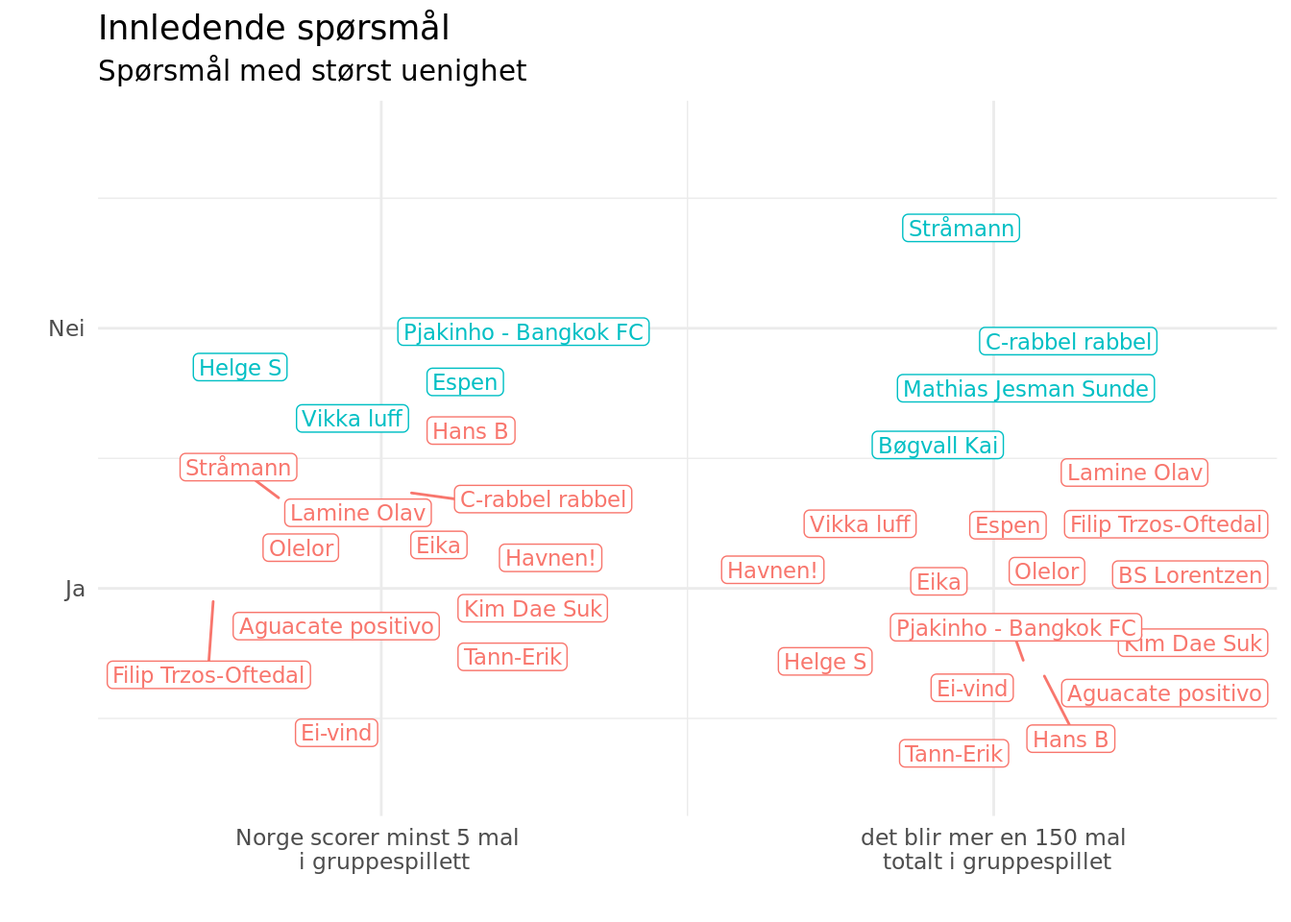
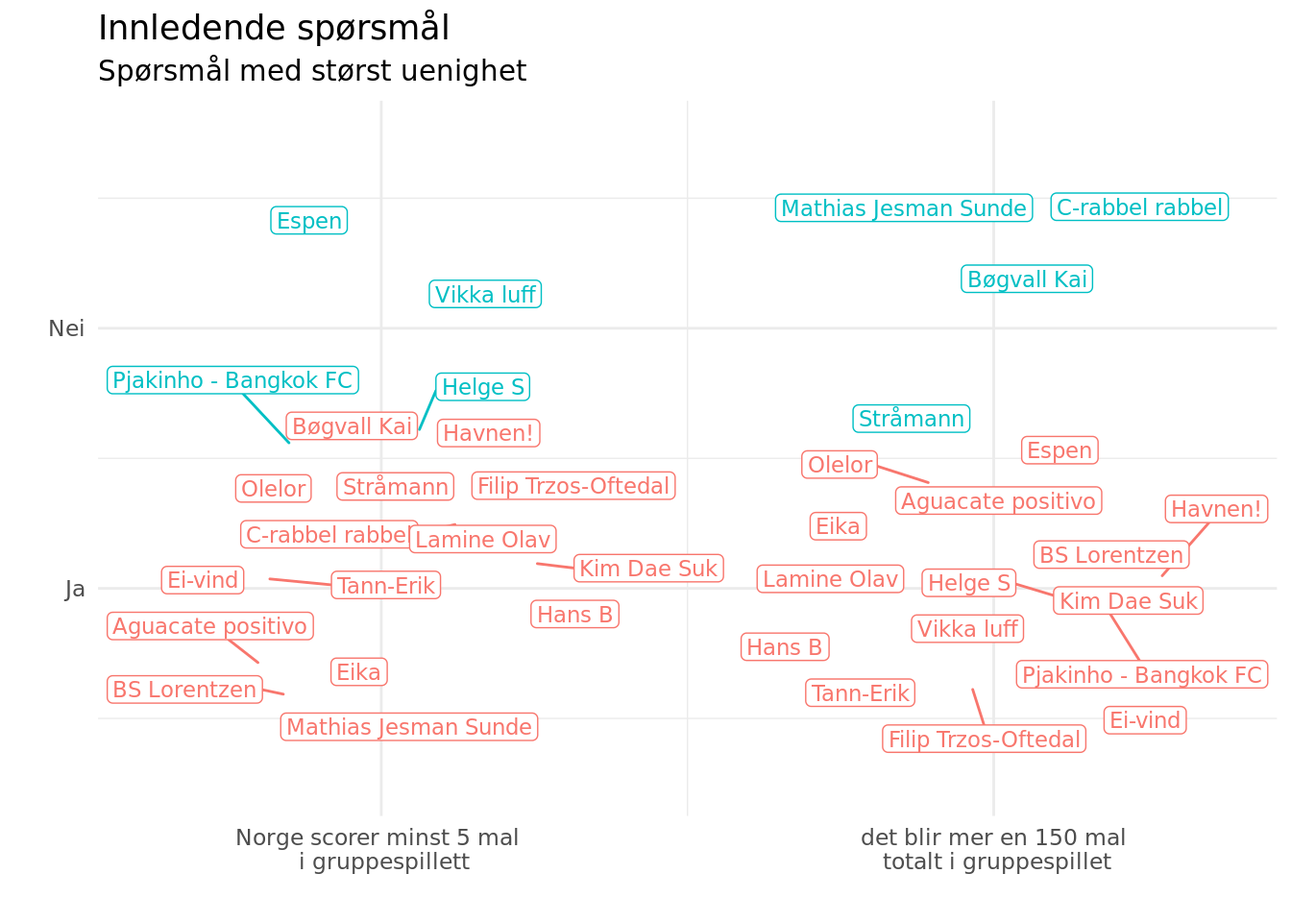
Før Frankrike

Changed region(s): [[0.0625, 0.2188, 1.0, 0.8438], [0.1875, 0.2188, 0.2812, 0.25]]

diff --git a/docs/senegalkampen.html b/docs/senegalkampen.html
@@ -8,7 +8,7 @@
 
 <meta name="author" content="Helge &amp; KI">
 
-<title>⚽ VM-tuppekunkurranse – Resultater 🚣 🏆</title>
+<title>⚽ VM-tuppekunkurranse – Resultater 🏆</title>
 <style>
 code{white-space: pre-wrap;}
 span.smallcaps{font-variant: small-caps;}
@@ -52,9 +52,9 @@ ul.task-list li input[type="checkbox"] {
   <li><a href="#innledning" id="toc-innledning" class="nav-link" data-scroll-target="#innledning"><span class="header-section-number">2</span> Innledning</a></li>
   <li><a href="#gruppespill" id="toc-gruppespill" class="nav-link" data-scroll-target="#gruppespill"><span class="header-section-number">3</span> Gruppespill</a>
   <ul class="collapse">
-  <li><a href="#dypdykk-gruppe-i-l" id="toc-dypdykk-gruppe-i-l" class="nav-link" data-scroll-target="#dypdykk-gruppe-i-l"><span class="header-section-number">3.1</span> Dypdykk gruppe I-L</a></li>
+  <li><a href="#dypdykk-gruppe-e-h" id="toc-dypdykk-gruppe-e-h" class="nav-link" data-scroll-target="#dypdykk-gruppe-e-h"><span class="header-section-number">3.1</span> Dypdykk gruppe E-H</a></li>
   </ul></li>
-  <li><a href="#frankrike-kampen" id="toc-frankrike-kampen" class="nav-link" data-scroll-target="#frankrike-kampen"><span class="header-section-number">4</span> Frankrike-kampen</a></li>
+  <li><a href="#senegal-kampen" id="toc-senegal-kampen" class="nav-link" data-scroll-target="#senegal-kampen"><span class="header-section-number">4</span> Senegal-kampen</a></li>
   <li><a href="#topp-og-bunnlister" id="toc-topp-og-bunnlister" class="nav-link" data-scroll-target="#topp-og-bunnlister"><span class="header-section-number">5</span> Topp og bunnlister</a></li>
   </ul>
 </nav>
@@ -63,7 +63,7 @@ ul.task-list li input[type="checkbox"] {
 
 <header id="title-block-header" class="quarto-title-block default">
 <div class="quarto-title">
-<h1 class="title">⚽ VM-tuppekunkurranse – Resultater 🚣 🏆</h1>
+<h1 class="title">⚽ VM-tuppekunkurranse – Resultater 🏆</h1>
 </div>
 
 
@@ -89,11 +89,10 @@ ul.task-list li input[type="checkbox"] {
 <p><img src="bilder/fifa.jpg" class="img-fluid"></p>
 <p>Denne rapporten viser resultatene fra VM-tuppekunkurransen. Utrolig avansert analyse er anvendt for å tolke innsendte tippelapper. Analysene tyter ut i figurer og tabeller i det følgende notatet. Si gjerne fra om du har forslag til analyser eller ser feil i dataene. Oppdaterte analyser kommer etter Irak-Norge.</p>
 <p>God lesning!</p>
-<p>Notatet er oppdatert 23. juni 2026</p>
+<p>Notatet er oppdatert 22. juni 2026</p>
 <p>Alle svar som er levert inn ligger her: <a href="tippelapper.html">Tippelapper</a></p>
 <p>Her er pekere til tidligere versjoner av rapporten:</p>
-<p><a href="irakkampen.html">Før Irak</a></p>
-<p><a href="senegalkampen.html">Før Senegal</a></p>
+<p><a href="irakkampen.html">Før Irak-kampen</a></p>
 <section id="datagrunnlag" class="level2" data-number="1">
 <h2 data-number="1" class="anchored" data-anchor-id="datagrunnlag"><span class="header-section-number">1</span> Datagrunnlag</h2>
 <p><img src="bilder/lagbilde.jpg" class="img-fluid"></p>
@@ -115,25 +114,25 @@ Ein luring som satt over halvaen time på do i arbeidstidå
 </div>
 </div>
 </div>
-<p>I neste figur beholdes x-aksen, men y-aksen skiftes ut med poengfangst til nå. Noen har brukt mye tid til å skaffe veldig få poeng. Andre har brukt lite tid til å skaffe mange poeng.</p>
+</section>
+<section id="innledning" class="level2" data-number="2">
+<h2 data-number="2" class="anchored" data-anchor-id="innledning"><span class="header-section-number">2</span> Innledning</h2>
+<p>Er vi enige om noe. Det viser seg at ja, jammen er vi det. Figuren viser spørsmål hvor det er størst grad av enighet</p>
 <div class="cell">
 <div class="cell-output-display">
 <div>
 <figure class="figure">
-<p><img src="index_files/figure-html/tid_poeng-1.png" class="img-fluid figure-img" width="672"></p>
+<p><img src="index_files/figure-html/innledning_enighet-1.png" class="img-fluid figure-img" width="672"></p>
 </figure>
 </div>
 </div>
 </div>
-</section>
-<section id="innledning" class="level2" data-number="2">
-<h2 data-number="2" class="anchored" data-anchor-id="innledning"><span class="header-section-number">2</span> Innledning</h2>
-<p>Angående Frankrike-kampen, så kan to interessante spørsmål utledes fra de avgitte svarene. Her er det jammen mulig å diskutere seg hes. Vinner Frankrike VM og blir Mbappe toppscorer? De mest frankofile fyrene tror ja på begge.</p>
+<p>Men vi er også uenige om mye. Figuren viser spørsmål hvor vi har vært mest delte i svarene.</p>
 <div class="cell">
 <div class="cell-output-display">
 <div>
 <figure class="figure">
-<p><img src="index_files/figure-html/frankrike_vinner-1.png" class="img-fluid figure-img" width="672"></p>
+<p><img src="index_files/figure-html/innledning_uenighet-1.png" class="img-fluid figure-img" width="672"></p>
 </figure>
 </div>
 </div>
@@ -143,65 +142,60 @@ Ein luring som satt over halvaen time på do i arbeidstidå
 <h2 data-number="3" class="anchored" data-anchor-id="gruppespill"><span class="header-section-number">3</span> Gruppespill</h2>
 <p>Ordet gruppe kommer opprinnelig fra det italienske ordet gruppo, som betyr en samling eller klump av ting eller personer. Dette ordet ble brukt innen kunst, særlig om flere figurer som er arrangert sammen i et bilde eller en skulptur. Fra italiensk spredte ordet seg til andre europeiske språk, blant annet fransk (groupe), før det ble tatt i bruk på norsk. I moderne norsk brukes gruppe om en samling personer eller elementer som hører sammen eller har noe felles, for eksempel en arbeidsgruppe eller en vennegjeng. Kort sagt har ordet utviklet seg fra å beskrive noe visuelt samlet, til å betegne en mer generell samling eller enhet.</p>
 <p>Dypdykk i hver gruppe kommer etter hvert som gruppespillet utfolder seg. Her ser vi på hvilke grupper av respondenter som har svart hva i hvilke grupper, gruppert etter antall. Det er til å bli svimmel av.</p>
-<section id="dypdykk-gruppe-i-l" class="level3" data-number="3.1">
-<h3 data-number="3.1" class="anchored" data-anchor-id="dypdykk-gruppe-i-l"><span class="header-section-number">3.1</span> Dypdykk gruppe I-L</h3>
+<section id="dypdykk-gruppe-e-h" class="level3" data-number="3.1">
+<h3 data-number="3.1" class="anchored" data-anchor-id="dypdykk-gruppe-e-h"><span class="header-section-number">3.1</span> Dypdykk gruppe E-H</h3>
 <p>Den neste tabellen viser et innblikk i grupperesultatene som var mest typiske og mest utypiske i tippekupongene. I den første tabellen vises de grupperesultatene som flest har tippet.</p>
 <div class="cell">
 <div class="cell-output-display">
-<div class="tabwid"><style>.cl-92ad5fa0{table-layout:auto;}.cl-92a6b222{font-family:'Arial';font-size:11pt;font-weight:normal;font-style:normal;text-decoration:none;color:rgba(0, 0, 0, 1.00);background-color:transparent;}.cl-92a99d7a{margin:0;text-align:left;border-bottom: 0 solid rgba(0, 0, 0, 1.00);border-top: 0 solid rgba(0, 0, 0, 1.00);border-left: 0 solid rgba(0, 0, 0, 1.00);border-right: 0 solid rgba(0, 0, 0, 1.00);padding-bottom:5pt;padding-top:5pt;padding-left:5pt;padding-right:5pt;line-height: 1;background-color:transparent;}.cl-92a9be04{background-color:transparent;vertical-align: middle;border-bottom: 1.5pt solid rgba(102, 102, 102, 1.00);border-top: 1.5pt solid rgba(102, 102, 102, 1.00);border-left: 0 solid rgba(0, 0, 0, 1.00);border-right: 0 solid rgba(0, 0, 0, 1.00);margin-bottom:0;margin-top:0;margin-left:0;margin-right:0;}.cl-92a9be0e{background-color:transparent;vertical-align: middle;border-bottom: 0 solid rgba(0, 0, 0, 1.00);border-top: 0 solid rgba(0, 0, 0, 1.00);border-left: 0 solid rgba(0, 0, 0, 1.00);border-right: 0 solid rgba(0, 0, 0, 1.00);margin-bottom:0;margin-top:0;margin-left:0;margin-right:0;}.cl-92a9be18{background-color:transparent;vertical-align: middle;border-bottom: 1.5pt solid rgba(102, 102, 102, 1.00);border-top: 0 solid rgba(0, 0, 0, 1.00);border-left: 0 solid rgba(0, 0, 0, 1.00);border-right: 0 solid rgba(0, 0, 0, 1.00);margin-bottom:0;margin-top:0;margin-left:0;margin-right:0;}</style><table data-quarto-disable-processing="true" class="cl-92ad5fa0"><thead><tr style="overflow-wrap:break-word;"><th class="cl-92a9be04"><p class="cl-92a99d7a"><span class="cl-92a6b222">Gruppe</span></p></th><th class="cl-92a9be04"><p class="cl-92a99d7a"><span class="cl-92a6b222">Mest vanlig rekkefølge</span></p></th><th class="cl-92a9be04"><p class="cl-92a99d7a"><span class="cl-92a6b222">Hvem</span></p></th></tr></thead><tbody><tr style="overflow-wrap:break-word;"><td class="cl-92a9be0e"><p class="cl-92a99d7a"><span class="cl-92a6b222">I</span></p></td><td class="cl-92a9be0e"><p class="cl-92a99d7a"><span class="cl-92a6b222">Frankrike, Norge, Senegal, Irak</span></p></td><td class="cl-92a9be0e"><p class="cl-92a99d7a"><span class="cl-92a6b222">Hans B, Eika, Helge S, Olelor, Filip Trzos-Oftedal, Ei-vind, BS Lorentzen, C-rabbel rabbel, Havnen!, Mathias Jesman Sunde, Aguacate positivo, Stråmann, Lamine Olav</span></p></td></tr><tr style="overflow-wrap:break-word;"><td class="cl-92a9be0e"><p class="cl-92a99d7a"><span class="cl-92a6b222">J</span></p></td><td class="cl-92a9be0e"><p class="cl-92a99d7a"><span class="cl-92a6b222">Argentina, Østerrike, Algerie, Jordan</span></p></td><td class="cl-92a9be0e"><p class="cl-92a99d7a"><span class="cl-92a6b222">Hans B, Eika, Filip Trzos-Oftedal, BS Lorentzen, C-rabbel rabbel, Kim Dae Suk, Havnen!, Espen, Aguacate positivo, Pjakinho - Bangkok FC, Lamine Olav</span></p></td></tr><tr style="overflow-wrap:break-word;"><td class="cl-92a9be0e"><p class="cl-92a99d7a"><span class="cl-92a6b222">K</span></p></td><td class="cl-92a9be0e"><p class="cl-92a99d7a"><span class="cl-92a6b222">Portugal, Colombia, DR Kongo, Usbekistan</span></p></td><td class="cl-92a9be0e"><p class="cl-92a99d7a"><span class="cl-92a6b222">Helge S, Olelor, Filip Trzos-Oftedal, Ei-vind, C-rabbel rabbel, Kim Dae Suk, Havnen!, Mathias Jesman Sunde, Stråmann, Vikka luff, Tann-Erik, Lamine Olav</span></p></td></tr><tr style="overflow-wrap:break-word;"><td class="cl-92a9be18"><p class="cl-92a99d7a"><span class="cl-92a6b222">L</span></p></td><td class="cl-92a9be18"><p class="cl-92a99d7a"><span class="cl-92a6b222">England, Kroatia, Ghana, Panama</span></p></td><td class="cl-92a9be18"><p class="cl-92a99d7a"><span class="cl-92a6b222">Hans B, Helge S, Filip Trzos-Oftedal, Ei-vind, C-rabbel rabbel, Kim Dae Suk, Havnen!, Mathias Jesman Sunde, Pjakinho - Bangkok FC, Stråmann, Bøgvall Kai, Vikka luff, Tann-Erik</span></p></td></tr></tbody></table></div>
+<div class="tabwid"><style>.cl-7344345c{table-layout:auto;}.cl-733d71bc{font-family:'Arial';font-size:11pt;font-weight:normal;font-style:normal;text-decoration:none;color:rgba(0, 0, 0, 1.00);background-color:transparent;}.cl-73404f18{margin:0;text-align:left;border-bottom: 0 solid rgba(0, 0, 0, 1.00);border-top: 0 solid rgba(0, 0, 0, 1.00);border-left: 0 solid rgba(0, 0, 0, 1.00);border-right: 0 solid rgba(0, 0, 0, 1.00);padding-bottom:5pt;padding-top:5pt;padding-left:5pt;padding-right:5pt;line-height: 1;background-color:transparent;}.cl-734070f6{background-color:transparent;vertical-align: middle;border-bottom: 1.5pt solid rgba(102, 102, 102, 1.00);border-top: 1.5pt solid rgba(102, 102, 102, 1.00);border-left: 0 solid rgba(0, 0, 0, 1.00);border-right: 0 solid rgba(0, 0, 0, 1.00);margin-bottom:0;margin-top:0;margin-left:0;margin-right:0;}.cl-73407100{background-color:transparent;vertical-align: middle;border-bottom: 0 solid rgba(0, 0, 0, 1.00);border-top: 0 solid rgba(0, 0, 0, 1.00);border-left: 0 solid rgba(0, 0, 0, 1.00);border-right: 0 solid rgba(0, 0, 0, 1.00);margin-bottom:0;margin-top:0;margin-left:0;margin-right:0;}.cl-73407101{background-color:transparent;vertical-align: middle;border-bottom: 1.5pt solid rgba(102, 102, 102, 1.00);border-top: 0 solid rgba(0, 0, 0, 1.00);border-left: 0 solid rgba(0, 0, 0, 1.00);border-right: 0 solid rgba(0, 0, 0, 1.00);margin-bottom:0;margin-top:0;margin-left:0;margin-right:0;}</style><table data-quarto-disable-processing="true" class="cl-7344345c"><thead><tr style="overflow-wrap:break-word;"><th class="cl-734070f6"><p class="cl-73404f18"><span class="cl-733d71bc">Gruppe</span></p></th><th class="cl-734070f6"><p class="cl-73404f18"><span class="cl-733d71bc">Mest vanlig rekkefølge</span></p></th><th class="cl-734070f6"><p class="cl-73404f18"><span class="cl-733d71bc">Hvem</span></p></th></tr></thead><tbody><tr style="overflow-wrap:break-word;"><td class="cl-73407100"><p class="cl-73404f18"><span class="cl-733d71bc">E</span></p></td><td class="cl-73407100"><p class="cl-73404f18"><span class="cl-733d71bc">Tyskland, Ecuador, Elfenbenskysten, Curaçao</span></p></td><td class="cl-73407100"><p class="cl-73404f18"><span class="cl-733d71bc">Eika, BS Lorentzen, Kim Dae Suk, Espen, Pjakinho - Bangkok FC, Stråmann, Bøgvall Kai, Vikka luff</span></p></td></tr><tr style="overflow-wrap:break-word;"><td class="cl-73407100"><p class="cl-73404f18"><span class="cl-733d71bc">F</span></p></td><td class="cl-73407100"><p class="cl-73404f18"><span class="cl-733d71bc">Nederland, Japan, Sverige, Tunisia</span></p></td><td class="cl-73407100"><p class="cl-73404f18"><span class="cl-733d71bc">Eika, C-rabbel rabbel, Kim Dae Suk, Havnen!, Mathias Jesman Sunde, Pjakinho - Bangkok FC, Tann-Erik, Lamine Olav</span></p></td></tr><tr style="overflow-wrap:break-word;"><td class="cl-73407100"><p class="cl-73404f18"><span class="cl-733d71bc">G</span></p></td><td class="cl-73407100"><p class="cl-73404f18"><span class="cl-733d71bc">Belgia, Egypt, Iran, New Zealand</span></p></td><td class="cl-73407100"><p class="cl-73404f18"><span class="cl-733d71bc">Hans B, Helge S, Filip Trzos-Oftedal, Ei-vind, Mathias Jesman Sunde, Espen, Pjakinho - Bangkok FC, Stråmann, Vikka luff</span></p></td></tr><tr style="overflow-wrap:break-word;"><td class="cl-73407101"><p class="cl-73404f18"><span class="cl-733d71bc">H</span></p></td><td class="cl-73407101"><p class="cl-73404f18"><span class="cl-733d71bc">Spania, Uruguay, Saudi-Arabia, Kapp Verde</span></p></td><td class="cl-73407101"><p class="cl-73404f18"><span class="cl-733d71bc">Hans B, Eika, Helge S, Olelor, Filip Trzos-Oftedal, BS Lorentzen, Kim Dae Suk, Havnen!, Mathias Jesman Sunde, Espen, Aguacate positivo, Stråmann, Bøgvall Kai, Vikka luff, Tann-Erik, Lamine Olav</span></p></td></tr></tbody></table></div>
 </div>
 </div>
 <p>I den neste tabellen vises de grupperesultatene som færrest har valgt. Husk å si fra til de som har tippet mest idiotisk!</p>
 <div class="cell">
 <div class="cell-output-display">
-<div class="tabwid"><style>.cl-92e35f88{table-layout:auto;}.cl-92dca1e8{font-family:'Arial';font-size:11pt;font-weight:normal;font-style:normal;text-decoration:none;color:rgba(0, 0, 0, 1.00);background-color:transparent;}.cl-92df78fa{margin:0;text-align:left;border-bottom: 0 solid rgba(0, 0, 0, 1.00);border-top: 0 solid rgba(0, 0, 0, 1.00);border-left: 0 solid rgba(0, 0, 0, 1.00);border-right: 0 solid rgba(0, 0, 0, 1.00);padding-bottom:5pt;padding-top:5pt;padding-left:5pt;padding-right:5pt;line-height: 1;background-color:transparent;}.cl-92df99fc{background-color:transparent;vertical-align: middle;border-bottom: 1.5pt solid rgba(102, 102, 102, 1.00);border-top: 1.5pt solid rgba(102, 102, 102, 1.00);border-left: 0 solid rgba(0, 0, 0, 1.00);border-right: 0 solid rgba(0, 0, 0, 1.00);margin-bottom:0;margin-top:0;margin-left:0;margin-right:0;}.cl-92df9a06{background-color:transparent;vertical-align: middle;border-bottom: 0 solid rgba(0, 0, 0, 1.00);border-top: 0 solid rgba(0, 0, 0, 1.00);border-left: 0 solid rgba(0, 0, 0, 1.00);border-right: 0 solid rgba(0, 0, 0, 1.00);margin-bottom:0;margin-top:0;margin-left:0;margin-right:0;}.cl-92df9a10{background-color:transparent;vertical-align: middle;border-bottom: 1.5pt solid rgba(102, 102, 102, 1.00);border-top: 0 solid rgba(0, 0, 0, 1.00);border-left: 0 solid rgba(0, 0, 0, 1.00);border-right: 0 solid rgba(0, 0, 0, 1.00);margin-bottom:0;margin-top:0;margin-left:0;margin-right:0;}</style><table data-quarto-disable-processing="true" class="cl-92e35f88"><thead><tr style="overflow-wrap:break-word;"><th class="cl-92df99fc"><p class="cl-92df78fa"><span class="cl-92dca1e8">Gruppe</span></p></th><th class="cl-92df99fc"><p class="cl-92df78fa"><span class="cl-92dca1e8">Mest uvanlige rekkefølge</span></p></th><th class="cl-92df99fc"><p class="cl-92df78fa"><span class="cl-92dca1e8">Hvem</span></p></th></tr></thead><tbody><tr style="overflow-wrap:break-word;"><td class="cl-92df9a06"><p class="cl-92df78fa"><span class="cl-92dca1e8">I</span></p></td><td class="cl-92df9a06"><p class="cl-92df78fa"><span class="cl-92dca1e8">Norge, Frankrike, Senegal, Irak</span></p></td><td class="cl-92df9a06"><p class="cl-92df78fa"><span class="cl-92dca1e8">Tann-Erik</span></p></td></tr><tr style="overflow-wrap:break-word;"><td class="cl-92df9a06"><p class="cl-92df78fa"><span class="cl-92dca1e8">J</span></p></td><td class="cl-92df9a06"><p class="cl-92df78fa"><span class="cl-92dca1e8">Østerrike, Argentina, Algerie, Jordan</span></p></td><td class="cl-92df9a06"><p class="cl-92df78fa"><span class="cl-92dca1e8">Tann-Erik</span></p></td></tr><tr style="overflow-wrap:break-word;"><td class="cl-92df9a06"><p class="cl-92df78fa"><span class="cl-92dca1e8">K</span></p></td><td class="cl-92df9a06"><p class="cl-92df78fa"><span class="cl-92dca1e8">Colombia, Portugal, DR Kongo, Usbekistan</span></p></td><td class="cl-92df9a06"><p class="cl-92df78fa"><span class="cl-92dca1e8">BS Lorentzen, Aguacate positivo, Pjakinho - Bangkok FC</span></p></td></tr><tr style="overflow-wrap:break-word;"><td class="cl-92df9a10"><p class="cl-92df78fa"><span class="cl-92dca1e8">L</span></p></td><td class="cl-92df9a10"><p class="cl-92df78fa"><span class="cl-92dca1e8">Kroatia, England, Panama, Ghana</span></p></td><td class="cl-92df9a10"><p class="cl-92df78fa"><span class="cl-92dca1e8">Espen</span></p></td></tr></tbody></table></div>
+<div class="tabwid"><style>.cl-736ae17e{table-layout:auto;}.cl-73645570{font-family:'Arial';font-size:11pt;font-weight:normal;font-style:normal;text-decoration:none;color:rgba(0, 0, 0, 1.00);background-color:transparent;}.cl-7367220a{margin:0;text-align:left;border-bottom: 0 solid rgba(0, 0, 0, 1.00);border-top: 0 solid rgba(0, 0, 0, 1.00);border-left: 0 solid rgba(0, 0, 0, 1.00);border-right: 0 solid rgba(0, 0, 0, 1.00);padding-bottom:5pt;padding-top:5pt;padding-left:5pt;padding-right:5pt;line-height: 1;background-color:transparent;}.cl-7367408c{background-color:transparent;vertical-align: middle;border-bottom: 1.5pt solid rgba(102, 102, 102, 1.00);border-top: 1.5pt solid rgba(102, 102, 102, 1.00);border-left: 0 solid rgba(0, 0, 0, 1.00);border-right: 0 solid rgba(0, 0, 0, 1.00);margin-bottom:0;margin-top:0;margin-left:0;margin-right:0;}.cl-73674096{background-color:transparent;vertical-align: middle;border-bottom: 0 solid rgba(0, 0, 0, 1.00);border-top: 0 solid rgba(0, 0, 0, 1.00);border-left: 0 solid rgba(0, 0, 0, 1.00);border-right: 0 solid rgba(0, 0, 0, 1.00);margin-bottom:0;margin-top:0;margin-left:0;margin-right:0;}.cl-736740a0{background-color:transparent;vertical-align: middle;border-bottom: 1.5pt solid rgba(102, 102, 102, 1.00);border-top: 0 solid rgba(0, 0, 0, 1.00);border-left: 0 solid rgba(0, 0, 0, 1.00);border-right: 0 solid rgba(0, 0, 0, 1.00);margin-bottom:0;margin-top:0;margin-left:0;margin-right:0;}</style><table data-quarto-disable-processing="true" class="cl-736ae17e"><thead><tr style="overflow-wrap:break-word;"><th class="cl-7367408c"><p class="cl-7367220a"><span class="cl-73645570">Gruppe</span></p></th><th class="cl-7367408c"><p class="cl-7367220a"><span class="cl-73645570">Mest uvanlige rekkefølge</span></p></th><th class="cl-7367408c"><p class="cl-7367220a"><span class="cl-73645570">Hvem</span></p></th></tr></thead><tbody><tr style="overflow-wrap:break-word;"><td class="cl-73674096"><p class="cl-7367220a"><span class="cl-73645570">E</span></p></td><td class="cl-73674096"><p class="cl-7367220a"><span class="cl-73645570">Ecuador, Tyskland, Elfenbenskysten, Curaçao</span></p></td><td class="cl-73674096"><p class="cl-7367220a"><span class="cl-73645570">Ei-vind</span></p></td></tr><tr style="overflow-wrap:break-word;"><td class="cl-73674096"><p class="cl-7367220a"><span class="cl-73645570">F</span></p></td><td class="cl-73674096"><p class="cl-7367220a"><span class="cl-73645570">Nederland, Tunisia, Japan, Sverige</span></p></td><td class="cl-73674096"><p class="cl-7367220a"><span class="cl-73645570">Hans B, Helge S</span></p></td></tr><tr style="overflow-wrap:break-word;"><td class="cl-73674096"><p class="cl-7367220a"><span class="cl-73645570">G</span></p></td><td class="cl-73674096"><p class="cl-7367220a"><span class="cl-73645570">Egypt, Iran, Belgia, New Zealand</span></p></td><td class="cl-73674096"><p class="cl-7367220a"><span class="cl-73645570">BS Lorentzen</span></p></td></tr><tr style="overflow-wrap:break-word;"><td class="cl-736740a0"><p class="cl-7367220a"><span class="cl-73645570">H</span></p></td><td class="cl-736740a0"><p class="cl-7367220a"><span class="cl-73645570">Spania, Uruguay, Kapp Verde, Saudi-Arabia</span></p></td><td class="cl-736740a0"><p class="cl-7367220a"><span class="cl-73645570">Ei-vind, C-rabbel rabbel, Pjakinho - Bangkok FC</span></p></td></tr></tbody></table></div>
 </div>
 </div>
 </section>
 </section>
-<section id="frankrike-kampen" class="level2" data-number="4">
-<h2 data-number="4" class="anchored" data-anchor-id="frankrike-kampen"><span class="header-section-number">4</span> Frankrike-kampen</h2>
-<p>Frankrike er et land i Vest-Europa, kjent for sin rike historie, kultur og innflytelse på kunst, politikk og mat. Hovedstaden Paris er et av verdens mest besøkte reisemål, berømt for severdigheter som Eiffeltårnet, Louvre og Notre-Dame.</p>
+<section id="senegal-kampen" class="level2" data-number="4">
+<h2 data-number="4" class="anchored" data-anchor-id="senegal-kampen"><span class="header-section-number">4</span> Senegal-kampen</h2>
+<p>Senegal er et land i Vest-Afrika som ligger ved Atlanterhavet, og har grense til blant annet Mauritania, Mali og Guinea. Hovedstaden Dakar ligger ytterst på Kapp Verde-halvøya og er et viktig knutepunkt for handel, politikk og kultur i regionen. Byen er kjent for sin livlige atmosfære, markeder og musikkmiljø. Livlig blir det utvilsomt når ballen går i mål.</p>
 <div class="cell">
 <div class="cell-output-display">
 <div>
 <figure class="figure">
-<p><img src="index_files/figure-html/frankrike_maal-1.png" class="img-fluid figure-img" width="672"></p>
+<p><img src="index_files/figure-html/senegal_maal-1.png" class="img-fluid figure-img" width="672"></p>
 </figure>
 </div>
 </div>
 </div>
-<p>Landet har spilt en viktig rolle i Europas historie, blant annet gjennom den franske revolusjonen på slutten av 1700-tallet, som fikk stor betydning for utviklingen av demokrati og menneskerettigheter. I dag er Frankrike en av Europas største økonomier og en sentral aktør i EU.</p>
+<p>Landet fikk sin uavhengighet fra Frankrike i 1960, og har siden vært regnet som et av de mest stabile demokratiene i Afrika. Senegal har hatt flere fredelige maktoverganger, noe som skiller det fra mange andre land i regionen. Fransk er offisielt språk, men mange snakker også wolof og andre lokale språk i dagliglivet. Ingen av de norske spillerne snakker wolof, men hvem av innbytterne får mulighet å snakke med føttene?</p>
 <div class="cell">
 <div class="cell-output-display">
 <div>
 <figure class="figure">
-<p><img src="index_files/figure-html/frankrike_innbytter-1.png" class="img-fluid figure-img" width="672"></p>
+<p><img src="index_files/figure-html/senegal_innbytter-1.png" class="img-fluid figure-img" width="672"></p>
 </figure>
 </div>
 </div>
 </div>
-<p>Fransk er det offisielle språket, og kulturen er kjent for blant annet vin, ost, mote og gastronomi. Landskapet i Frankrike er variert, fra Alpene og Pyreneene til vinområder og lange kystlinjer. Dette gjør landet til et populært reisemål både for natur og storbyliv.</p>
+<p>Kulturen i Senegal er rik og mangfoldig, med sterke tradisjoner innen musikk, dans og kunst. Spesielt er senegalesisk musikk, som mbalax, kjent både i Afrika og internasjonalt. Den kjente sangeren Youssou N’Dour kommer fra Senegal. Landet er også kjent for sin varme gjestfrihet, ofte omtalt som teranga, som er en viktig del av den nasjonale identiteten.</p>
 <div class="cell">
 <div class="cell-output-display">
 <div>
 <figure class="figure">
-<p><img src="index_files/figure-html/frankrike_cornere-1.png" class="img-fluid figure-img" width="672"></p>
+<p><img src="index_files/figure-html/senegal_cornere-1.png" class="img-fluid figure-img" width="672"></p>
 </figure>
 </div>
 </div>
 </div>
-<p>Frankrike har en rik og suksessfull fotballhistorie, og regnes som en av de største fotballnasjonene i verden.</p>
-<p>Fotballen kom til Frankrike på slutten av 1800-tallet, og det franske fotballforbundet (FFF) ble etablert i 1919. Landslaget deltok i det første verdensmesterskapet i 1930, men hadde i mange år varierende resultater.</p>
-<p>På 1980-tallet fikk Frankrike sitt første store gjennombrudd, ledet av stjernespilleren Michel Platini. Laget vant EM i 1984 på hjemmebane, noe som var landets første store trofé. Denne perioden etablerte Frankrike som en seriøs fotballnasjon.</p>
-<p>Den største suksessen kom på slutten av 1990-tallet og begynnelsen av 2000-tallet. Med spillere som Zinedine Zidane, Thierry Henry og Didier Deschamps vant Frankrike VM i 1998 (på hjemmebane) og EM i 2000. Dette laget regnes som et av de beste i fotballhistorien.</p>
-<p>Frankrike fortsatte å være en toppnasjon også senere. De nådde VM-finalen i 2006, og fikk en ny storhetstid med en ny generasjon spillere som Kylian Mbappé, Antoine Griezmann og Paul Pogba:<br>
-VM-gull i 2018 og VM-finale i 2022 (tap mot Argentina etter straffer).</p>
+<p>Økonomien i Senegal er basert på jordbruk, fiske, gruvedrift og turisme. Viktige eksportvarer inkluderer peanøtter, fisk og fosfat. Turister tiltrekkes blant annet av strender, nasjonalparker og historiske steder som øya Gorée, som står på UNESCOs verdensarvliste på grunn av sin rolle i den transatlantiske slavehandelen. Vi gir kolonihistorien rødt kort. Hvor mange kort blir det i kampen?</p>
 <div class="cell">
 <div class="cell-output-display">
 <div>
 <figure class="figure">
-<p><img src="index_files/figure-html/frankrike_kort-1.png" class="img-fluid figure-img" width="672"></p>
+<p><img src="index_files/figure-html/senegal_kort-1.png" class="img-fluid figure-img" width="672"></p>
 </figure>
 </div>
 </div>
